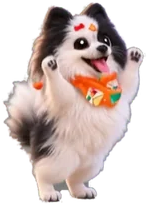
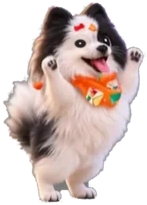
Timtim sem olho de panda na comemoração
O olho esquerdo da animação de comemoração (timtim-comemora.webp, 23 quadros) era uma mancha escura grande
em volta do olho. Em cada quadro a mancha foi trocada por pelo branco e um olho redondo do tamanho
do da referência, com o brilho do lado da luz. O script fica em game/tools.

Claude-Session: https://claude.ai/code/session_01GVMzXo7CqFkgY4hgbR3nSX

Changed region(s): [[0.4898, 0.1756, 0.6259, 0.2634]]

diff --git a/game/tools/conserta-olho-comemora.py b/game/tools/conserta-olho-comemora.py
@@ -1,0 +1,50 @@
+# Diminui o olho escuro grande ("olho de panda") da comemoração do Timtim para o tamanho do olho dele.
+# Uso: python3 game/tools/conserta-olho-comemora.py <entrada.webp> <saida.png> [escala=0.74]  (precisa de opencv-python-headless)
+import cv2, numpy as np, json, sys
+A='/home/user/timtim/game/assets/anim/'
+SRC=sys.argv[1]; OUT=sys.argv[2]; K=float(sys.argv[3]) if len(sys.argv)>3 else 0.6
+m=json.load(open(A+'timtim-comemora.json')); im=cv2.imread(SRC, cv2.IMREAD_UNCHANGED)
+fw=im.shape[1]//m['cols']; res=im.copy(); log=[]
+for i in range(m['n']):
+    fr=im[:, i*fw:(i+1)*fw].copy(); g=cv2.cvtColor(fr[:,:,:3],cv2.COLOR_BGR2GRAY)
+    dark=((g<70)&(fr[:,:,3]>200)).astype(np.uint8)
+    n,lab,st,cen=cv2.connectedComponentsWithStats(dark,8)
+    best=None
+    for k in range(1,n):
+        x,y,w,h,a=st[k]
+        if not (50<=a<=220 and w<=24 and h<=20 and 45<=x<=135): continue
+        blob=(lab==k).astype(np.uint8); ring=cv2.dilate(blob,np.ones((7,7),np.uint8))-blob
+        if g[ring>0].mean()<140: continue
+        if best is None or y<st[best,1]: best=k
+    if best is None: log.append((i,'-')); continue
+    blob=(lab==best).astype(np.uint8)
+    # olho inteiro: o escuro mais a borda acinzentada em volta
+    soft=((g<150)&(fr[:,:,3]>200)).astype(np.uint8)
+    grow=cv2.dilate(blob,np.ones((5,5),np.uint8))&soft | blob
+    ys,xs=np.nonzero(blob); cx,cy=xs.mean(),ys.mean()
+    ax=(xs.max()-xs.min()+1)/2*K; ay=(ys.max()-ys.min()+1)/2*K
+    # brilho original (o ponto mais claro dentro do olho) para manter o lado da luz
+    hl=cv2.inRange(g,170,255)&cv2.dilate(blob,np.ones((3,3),np.uint8)); hy,hx=np.nonzero(hl)
+    hdx,hdy=((hx.mean()-cx)/max(1,ax/K),(hy.mean()-cy)/max(1,ay/K)) if len(hx) else (-0.3,-0.35)
+    mask=cv2.dilate(grow,np.ones((3,3),np.uint8))*255
+    bgr=cv2.inpaint(fr[:,:,:3],mask,4,cv2.INPAINT_TELEA)
+    # olho novo desenhado em 4x e reduzido (borda macia)
+    S=4; H,W=g.shape
+    big=cv2.resize(bgr,(W*S,H*S),interpolation=cv2.INTER_CUBIC)
+    lay=np.zeros((H*S,W*S),np.float32); eye=np.zeros((H*S,W*S,3),np.float32)
+    c=(int(cx*S),int(cy*S)); ax_=(int(ax*S),int(ay*S))
+    cv2.ellipse(lay,c,ax_,0,0,360,1.0,-1,cv2.LINE_AA)
+    eye[:]=(22,24,30)
+    # leve tom castanho no centro
+    cv2.ellipse(eye,c,(int(ax*S*0.7),int(ay*S*0.7)),0,0,360,(28,34,48),-1,cv2.LINE_AA)
+    lay=cv2.GaussianBlur(lay,(0,0),S*0.6)
+    out=big*(1-lay[...,None])+eye*lay[...,None]
+    hc=(int((cx+hdx*ax*0.45)*S),int((cy+hdy*ay*0.45)*S)); r=max(2,int(min(ax,ay)*0.30*S))
+    hlay=np.zeros((H*S,W*S),np.float32); cv2.circle(hlay,hc,r,1.0,-1,cv2.LINE_AA); hlay=cv2.GaussianBlur(hlay,(0,0),S*0.4)*0.95
+    out=out*(1-hlay[...,None])+255*hlay[...,None]
+    small=cv2.resize(out.astype(np.uint8),(W,H),interpolation=cv2.INTER_AREA)
+    keep=fr[:,:,3]>0
+    fr[:,:,:3]=np.where(keep[...,None],small,fr[:,:,:3])
+    res[:, i*fw:(i+1)*fw]=fr; log.append((i,int(cx),int(cy),round(ax,1),round(ay,1)))
+cv2.imwrite(OUT,res,[cv2.IMWRITE_WEBP_QUALITY,100] if OUT.endswith('.webp') else [])
+print(log)
